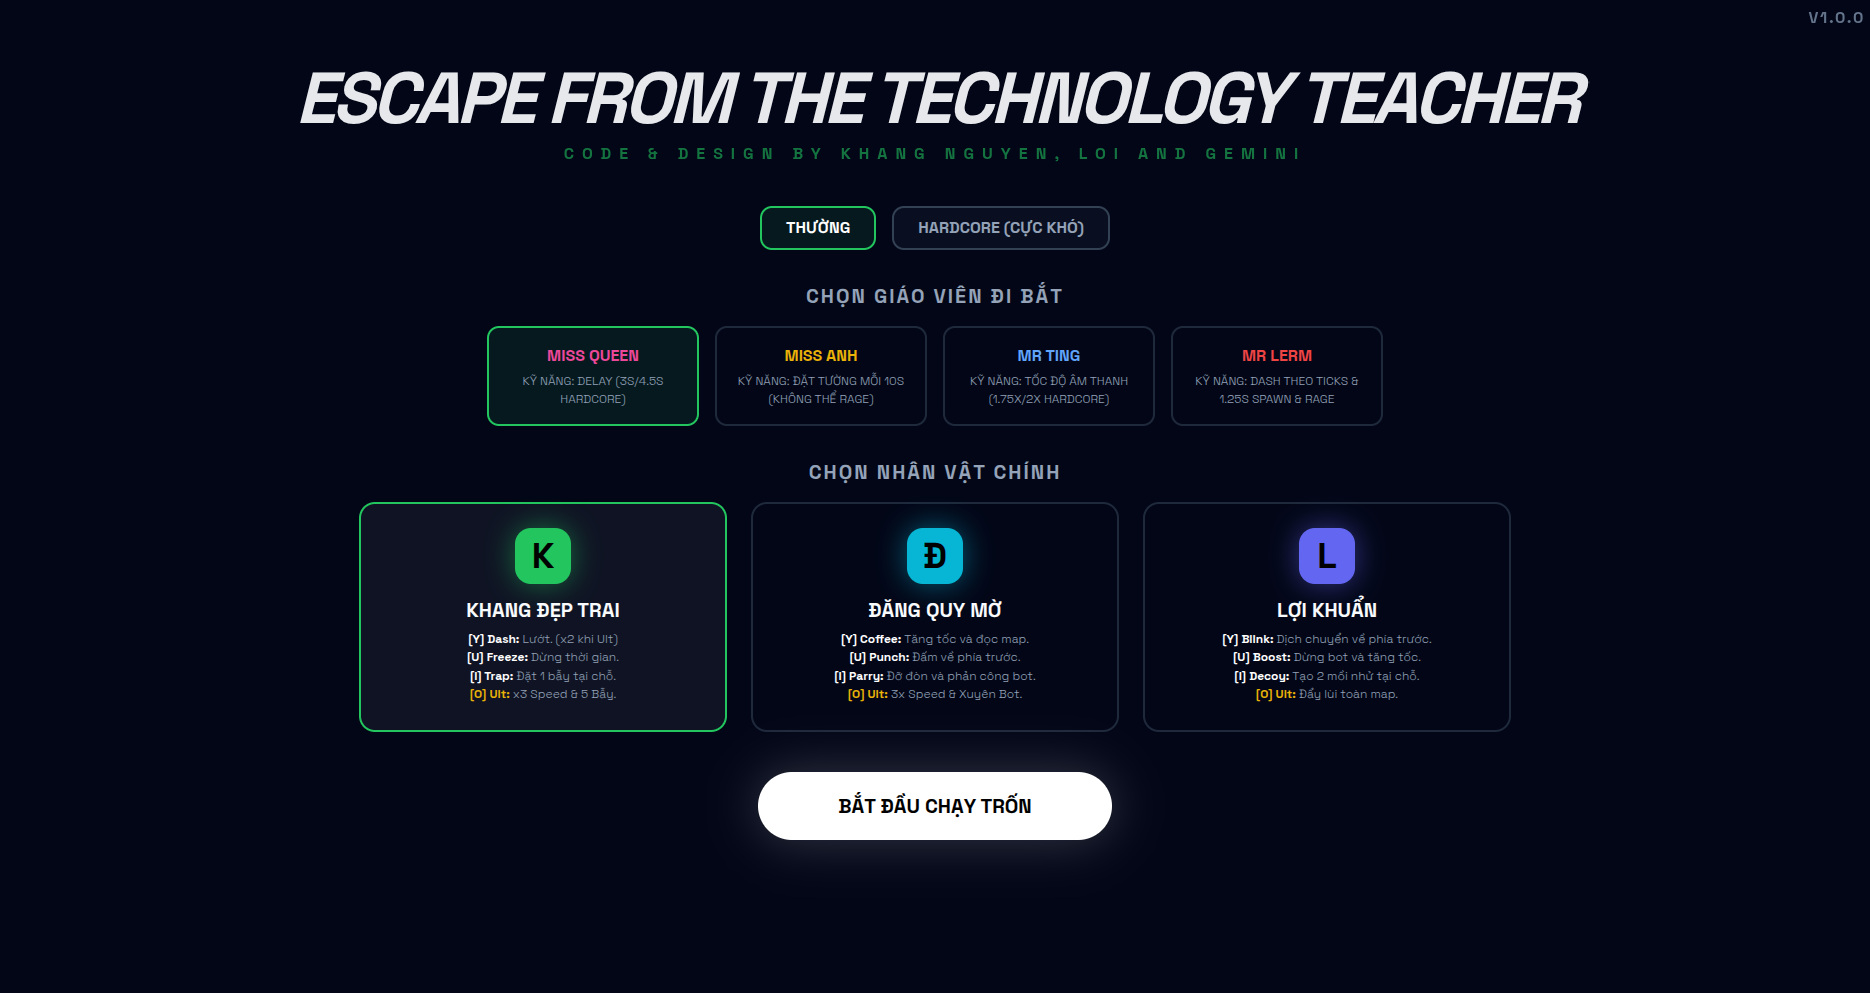
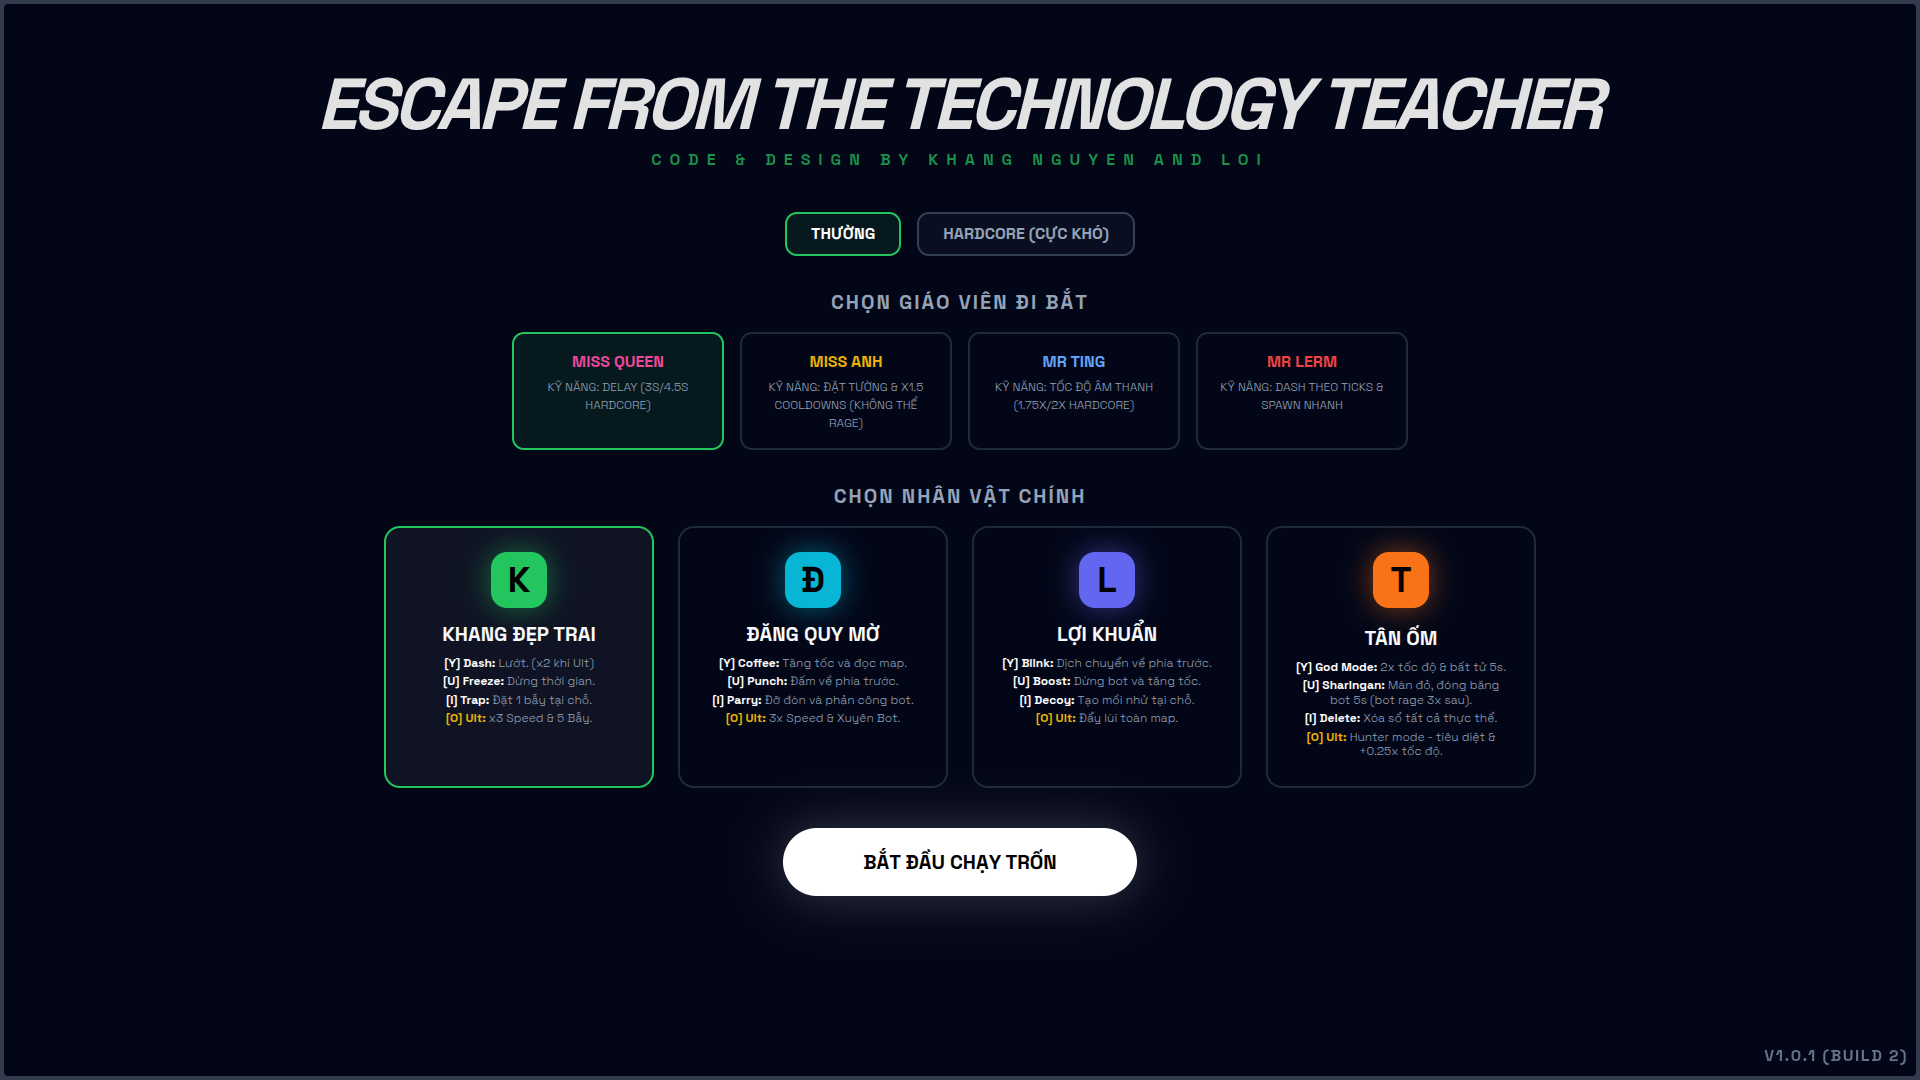
update html element + sfx + menu preview + fps counter

diff --git a/script.js b/script.js
@@ -32,6 +32,8 @@ let yCD = 0, uCD = 0, iCD = 0, oCD = 0, freezeEnd = 0, lastBotSpawnTime = 0;
 let shakeAmount = 0, showRoad = false;
 let alarmSoundPlaying = false;
 let isRaging = false;
+var filterStrength = 20;
+var frameTime = 0, lastLoop = new Date, thisLoop;
 
 const COOLDOWNS = {
     khang: { y: 4000, u: 10000, i: 5000, o: 15000 },
@@ -485,7 +487,7 @@ function useO() {
         player.khangTraps = 5;
         document.getElementById('trap-counter').classList.remove('hidden');
         document.getElementById('trap-counter').innerText = `BẪY CÒN LẠI: 5`;
-        playSound('assets/i-gotta-get-outta-here.mp3', 0.6);
+        playSound('assets/lets-go', 1.0);
         for (let i = 0; i < 8; i++) {
             setTimeout(() => {
                 spawnShockwave(player.x, player.y, 'rgba(255,255,255,0.8)');
@@ -707,7 +709,7 @@ function update() {
             if (Math.sqrt((b.x - t.x) ** 2 + (b.y - t.y) ** 2) < 0.6) {
                 b.delayUntil = now + (isHard ? 2500 : 3500);
                 spawnShockwave(t.x, t.y, '#fff');
-                playSound('assets/ahhhhhhhhhh.mp3', 0.5);
+                playSound('assets/ahhhhhhhhhh.mp3', 0.4);
                 traps.splice(idx, 1);
             }
         });
@@ -760,12 +762,12 @@ function update() {
                     if (selectedBot === 'tin') 
                         playSound('assets/rahhh.mp3');
                     else if (selectedBot === 'luom')
-                        playSound('assets/gotta-sweep.mp3');
+                        playSound('assets/gotta-sweep.mp3', 0.7);
                     else
                         playSound('assets/waapp-angry.mp3');
                 }
                 // show parry picture + ease-out + sfx in assets
-                const parry = document.getElementById('parry');
+                const parry = document.getElementById('parry-flash');
                 parry.classList.remove('hidden');
                 parry.style.opacity = 1;
                 setTimeout(() => {
@@ -776,7 +778,6 @@ function update() {
                     parry.classList.add('hidden');
                     parry.style.transition = 'none';
                 }, 600);
-                // play custom parry sfx in assets
                 playSound('assets/parry.mp3');
             } else if (!player.isGhost && freezeEnd < now && (!player.isInvincible || now > player.invincibleEnd)) {
                 endGame(false, selectedBot);
@@ -842,6 +843,10 @@ function update() {
     updateUI(now);
     draw(isCommonRage & isRageable);
     requestAnimationFrame(update);
+
+    var thisFrameTime = (thisLoop=new Date) - lastLoop;
+    frameTime += (thisFrameTime - frameTime) / filterStrength;
+    lastLoop = thisLoop;
 }
 
 /**
@@ -1130,6 +1135,10 @@ window.addEventListener('keyup', e => {
 
 window.addEventListener('resize', initCanvas);
 document.getElementById('vers').innerText = 'V' + version;
+var fpsOut = document.getElementById('fps-counter');
+setInterval(function(){
+    fpsOut.innerHTML = (frameTime ? Math.round(1000/frameTime) : "-") + " fps";
+}, 500);
 selectChar('khang');
 selectMode('normal');
 selectBot('quyen');

diff --git a/index.html b/index.html
@@ -9,6 +9,7 @@
 </head>
 <body class="flex items-center justify-center min-h-screen">
 
+    <div id="fps-counter" class="absolute top-2 right-2 text-xm font-bold text-slate-500 uppercase tracking-widest">FPS <!-- FPS --></div>
     <!-- SELECTION SCREEN -->
     <div id="selection-screen" class="absolute inset-0 z-[110] flex flex-col items-center justify-start bg-[#020617] p-6 text-center overflow-y-auto">
         <!-- TITLE & INFO -->
@@ -17,7 +18,7 @@
             <p class="text-green-500 font-bold tracking-[0.5em] mb-4 uppercase animate-pulse">Code & Design by Khang Nguyen and Loi</p>
         </div>
         <!-- VERSION -->
-        <div id="vers" class="absolute top-2 right-2 text-xm font-bold text-slate-500 uppercase tracking-widest">Version</div>
+        <div id="vers" class="absolute bottom-2 right-2 text-xm font-bold text-slate-500 uppercase tracking-widest">Version</div>
         
         <!-- MODE SELECT -->
         <div class="flex gap-4 mb-8">
@@ -113,14 +114,9 @@
             </div>
         </div>
 
-        <!-- Popup Notification -->
+        <!-- Popup Notification/Not In Use -->
         <div id="popup-notification" class="hidden absolute top-2/5 left-1/2 transform -translate-x-1/2 -translate-y-1/2 bg-black/80 backdrop-blur-xl p-4 rounded-3xl border border-white/10 shadow-2xl pointer-events-auto">
             <p class="text-white text-lg text-center text-bold">Bạn hạ gục được 1 bot!</p>
-        </div>
-
-        <!-- Parry Picture Notification Fullscreen -->
-        <div id="parry" class="hidden absolute inset-0 z-[210] flex items-center justify-center pointer-events-none">
-            <img src="assets/parry.jpeg" alt="Parry" class="w-full h-full">
         </div>
     </div>
 
@@ -138,7 +134,7 @@
 
     <div id="pause-overlay" class="hidden absolute inset-0 z-[205] bg-black/80 flex flex-col items-center justify-center text-center p-10">
         <div class="text-5xl font-black uppercase tracking-[0.3em] text-white mb-4">Tạm dừng</div>
-        <div class="text-sm uppercase tracking-[0.4em] text-slate-300">Nhấn Esc hoặc P để tiếp tục</div>
+        <div class="text-sm uppercase tracking-[0.4em] text-slate-300">Nhấn [Esc] hoặc [P] để tiếp tục</div>
     </div>
 
     <div id="game-over" class="hidden absolute inset-0 z-[200] bg-black/95 flex flex-col items-center justify-center text-center p-10">
